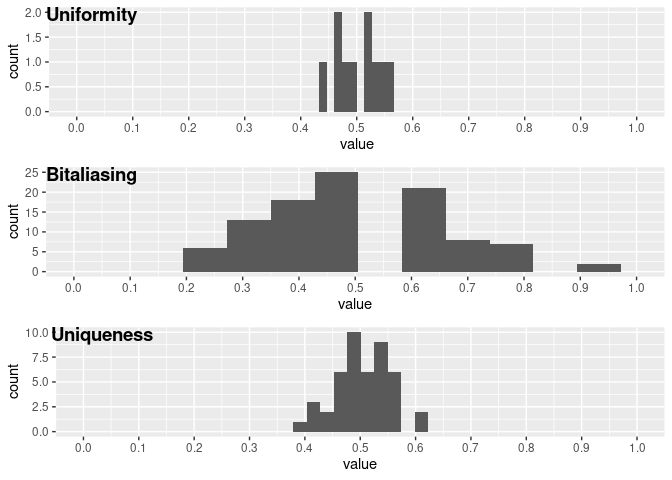
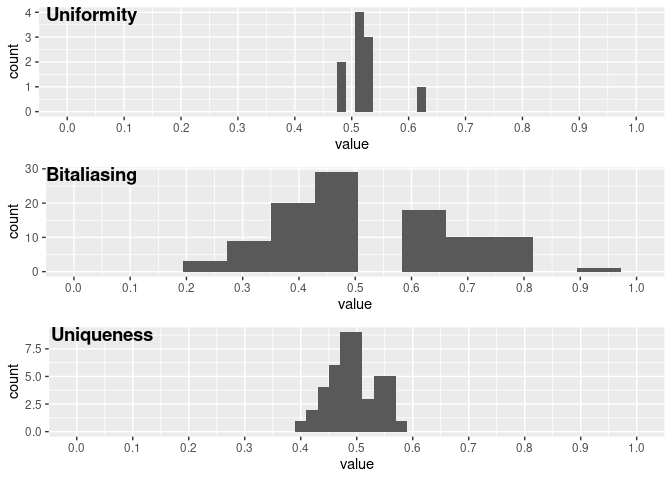
docs: add examples to metrics code

diff --git a/README.md b/README.md
@@ -50,14 +50,14 @@ v1 <- rbits(50)
 v2 <- rbits(50)
 
 hamming_dist(v1, v2)
-#> [1] 27
+#> [1] 21
 # Or alternatively
 v1 %HD% v2
-#> [1] 27
+#> [1] 21
 
 # Shannon entropy for bit vectors
 entropy_bits(v1)
-#> [1] 0.9895875
+#> [1] 0.9814539
 ```
 
 ## Metrics
@@ -71,11 +71,11 @@ using their respective functions.
 crps <- rbits(c(5, 10))
 
 uniformity(crps)
-#> [1] 0.5 0.7 0.7 0.9 0.5
+#> [1] 0.3 0.6 0.5 0.1 0.3
 bitaliasing(crps)
-#>  [1] 1.0 0.6 0.2 0.4 0.6 0.6 0.8 0.8 1.0 0.6
+#>  [1] 0.6 0.2 0.4 0.2 0.2 0.2 0.2 0.4 0.6 0.6
 uniqueness(crps)
-#>  [1] 0.6 0.6 0.4 0.6 0.6 0.6 0.6 0.8 0.6 0.4
+#>  [1] 0.5 0.6 0.6 0.4 0.5 0.5 0.3 0.4 0.6 0.6
 
 # For a 2D matrix, each column contains a sample
 # In a 3D matrix, the 3rd dimension represents the samples
@@ -83,16 +83,16 @@ uniqueness(crps)
 crps <- rbits(c(5, 10, 5))
 reliability(crps)
 #>       [,1] [,2] [,3] [,4] [,5]
-#>  [1,] 1.00 0.50 1.00 0.25 0.50
-#>  [2,] 0.50 0.75 0.75 0.50 0.50
-#>  [3,] 0.25 0.50 0.25 0.50 0.75
-#>  [4,] 0.50 0.50 0.25 0.50 0.50
-#>  [5,] 0.25 0.75 0.50 0.50 0.50
-#>  [6,] 1.00 0.25 0.50 0.75 1.00
-#>  [7,] 0.25 0.25 1.00 0.75 0.50
-#>  [8,] 0.00 0.75 0.25 0.00 0.50
-#>  [9,] 0.50 0.75 1.00 0.50 0.50
-#> [10,] 0.00 0.25 0.50 0.50 0.75
+#>  [1,] 0.50 0.25 0.50 0.50 0.50
+#>  [2,] 0.75 0.50 0.50 0.50 0.25
+#>  [3,] 0.50 0.25 0.50 0.25 0.50
+#>  [4,] 1.00 0.50 0.50 0.25 0.25
+#>  [5,] 0.50 0.00 0.25 1.00 0.25
+#>  [6,] 0.50 0.50 0.50 0.75 0.50
+#>  [7,] 0.50 0.50 1.00 0.25 0.50
+#>  [8,] 0.75 0.25 0.50 0.25 0.50
+#>  [9,] 0.50 0.50 0.25 0.25 0.75
+#> [10,] 0.50 0.50 0.50 0.75 0.25
 ```
 
 All the metrics can be calculated at once by using the `metrics`
